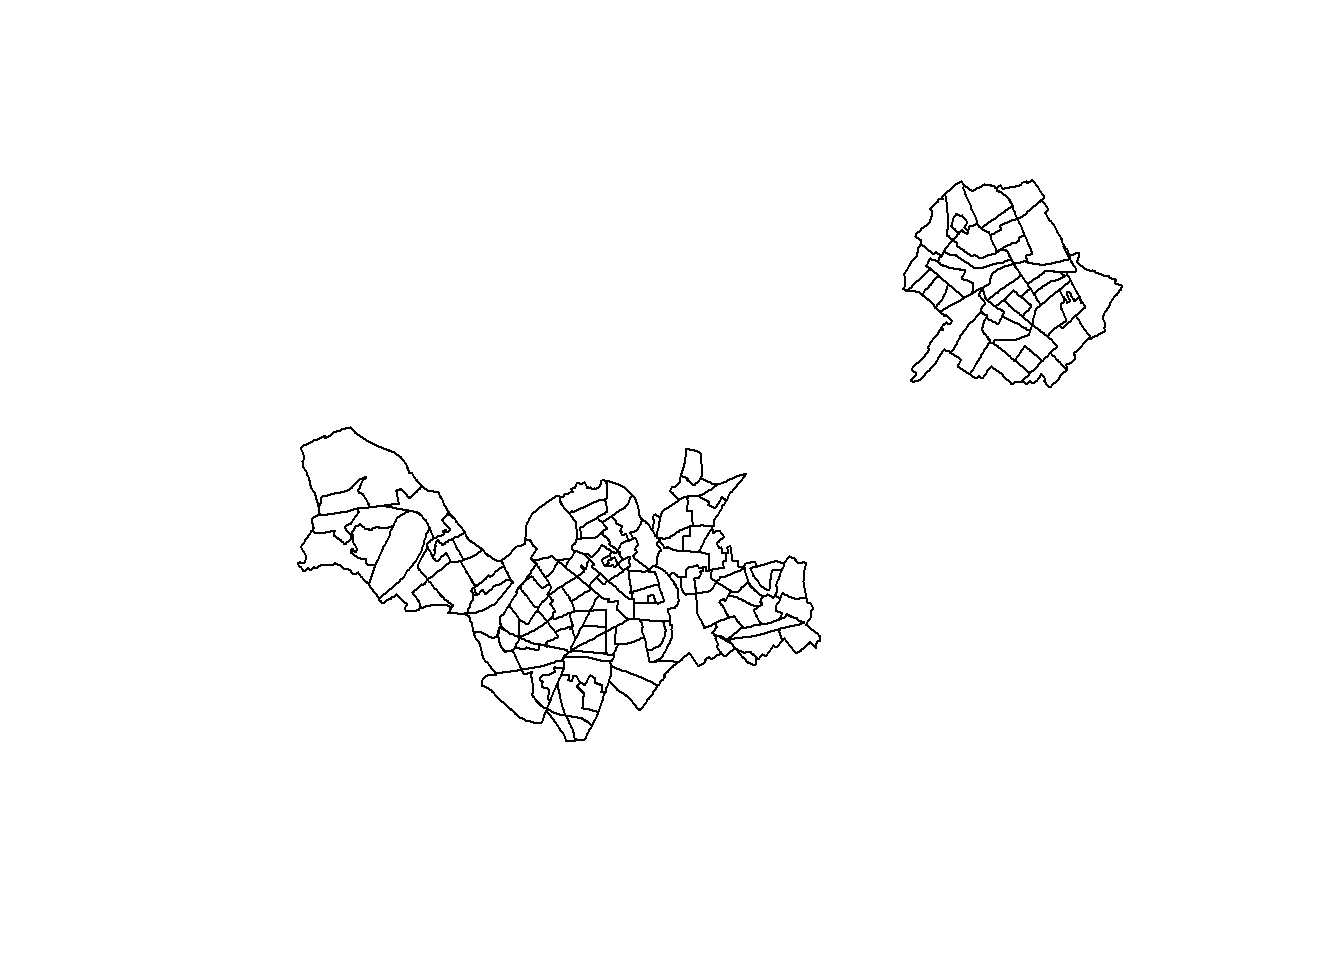
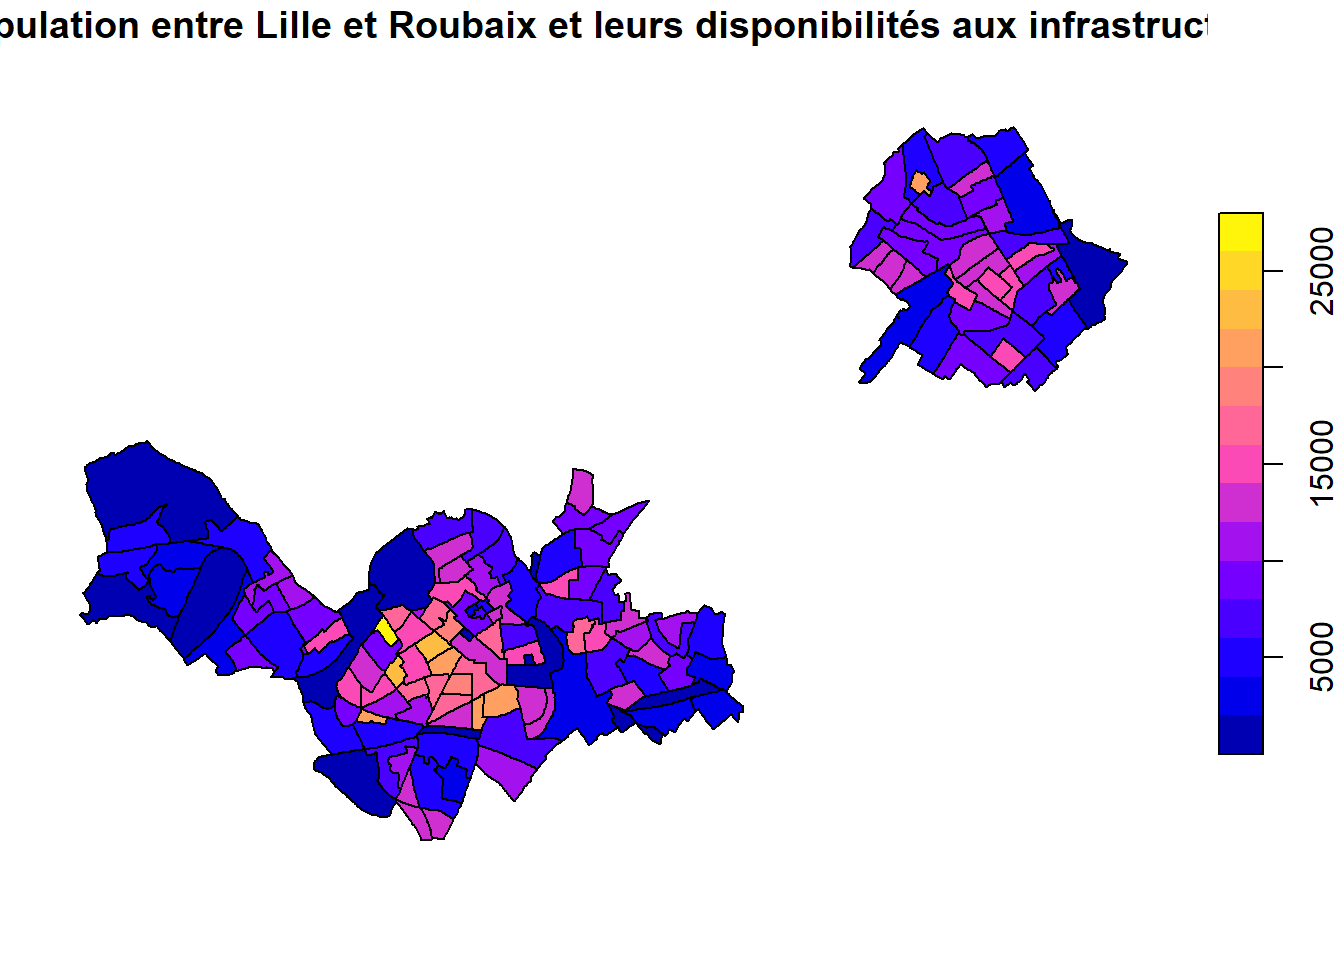
lol

diff --git a/docs/2026/05/13/lib-rez-roubaix/index.html b/docs/2026/05/13/lib-rez-roubaix/index.html
@@ -22,11 +22,6 @@
 
 
 
-
-<link href='//cdnjs.cloudflare.com/ajax/libs/highlight.js/9.12.0/styles/github.min.css' rel='stylesheet' type='text/css' />
-
-
-
 <link rel="stylesheet" href="/sitegis/css/fonts.css" media="all">
 <link rel="stylesheet" href="/sitegis/css/main.css" media="all">
 
@@ -62,7 +57,7 @@
 
   <article class="article">
     
-    <span class="article-duration">5 min read</span>
+    <span class="article-duration">4 min read</span>
     
 
     <h1 class="article-title">Analyse de données</h1>
@@ -100,27 +95,7 @@
 <p>Alors que Lille a bénéficié de percées haussmanniennes et de restructurations majeures facilitant la circulation, certains quartiers roubaisiens souffrent d’un enclavement morphologique. Les rues étroites, couplées au stationnement souvent saturé, créent de nombreux “points de friction” qui ralentissent les interventions d’urgence. Ici, la géographie des bâtiments devient une composante directe de l’inégalité de soin : <mark>à distance égale d’un hôpital, le temps d’intervention sera plus long dans le tissu dense de Roubaix que dans les grands axes lillois.</mark></p>
 <div id="pour-finir-dans-la-continuité-de-notre-étude-sig-de-laccès-à-la-santé-pour-lille-et-roubaix-nous-allons-utiliser-une-jointure-spatiale-qui-permettra-la-superposition-de-la-densité-de-population-avec-les-points-dimplantation-des-structures-de-soin-révélant-un-potentiel-déséquilibre." class="section level3">
 <h3>Pour finir, dans la continuité de notre étude SIG de l’accès à la santé pour Lille et Roubaix, nous allons utiliser une jointure spatiale qui permettra la superposition de la densité de population avec les points d’implantation des structures de soin révélant un potentiel déséquilibre.</h3>
-<pre><code>## Multiple layers are present in data source C:\Users\simon\Documents\AZ\sitegis\content\post\2026-05-13-lib-rez-roubaix\iris.gpkg, reading layer `iris&#39;.
-## Use `st_layers&#39; to list all layer names and their type in a data source.
-## Set the `layer&#39; argument in `st_read&#39; to read a particular layer.</code></pre>
-<pre><code>## Reading layer `iris&#39; from data source 
-##   `C:\Users\simon\Documents\AZ\sitegis\content\post\2026-05-13-lib-rez-roubaix\iris.gpkg&#39; 
-##   using driver `GPKG&#39;
-## Simple feature collection with 1347 features and 7 fields
-## Geometry type: MULTIPOLYGON
-## Dimension:     XY
-## Bounding box:  xmin: 635936.9 ymin: 6986147 xmax: 788231 ymax: 7110497
-## Projected CRS: RGF93 v1 / Lambert-93</code></pre>
 <p><img src="https://etudiantp4.github.io/sitegis/2026/05/13/lib-rez-roubaix/index_files/figure-html/unnamed-chunk-3-1.png" width="672" /></p>
-<pre><code>## Reading layer `soin&#39; from data source 
-##   `C:\Users\simon\Documents\AZ\sitegis\content\post\2026-05-13-lib-rez-roubaix\soin.geojson&#39; 
-##   using driver `GeoJSON&#39;
-## Simple feature collection with 500 features and 73 fields
-## Geometry type: POINT
-## Dimension:     XY
-## Bounding box:  xmin: 2.845676 ymin: 50.5807 xmax: 3.411022 ymax: 50.72513
-## Geodetic CRS:  WGS 84</code></pre>
-<p><img src="https://etudiantp4.github.io/sitegis/2026/05/13/lib-rez-roubaix/index_files/figure-html/unnamed-chunk-3-2.png" width="672" /></p>
 <p><em>Nous avons utilisé les données de l’IRIS fournies sur le site Data.gouv, nous permettant d’avoir accès aux contours infracommunales. De cela, nous avons joint ces données avec le nombre et densité de population de l’INSEE, aussi basés par l’IRIS, nous permettant de nous concentrer sur les quartiers des communes. Enfin à cette jointure, nous avons joint des données géographiques fournies en OSM par OverPassTrubo sur les différents services et offres de soins publics et privées (médecins, cliniques, hôpitaux,etc)</em></p>
 <p>À Roubaix, la densité d’habitants au kilomètre carré est l’une des plus élevées de la métropole, particulièrement dans les quartiers populaires. Or, à travers notre analyse, on s’aperçoit que la densité ne correspond pas toujours à une concentration proportionnelle de l’offre de soins de premier recours (généralistes, cabinets, etc).</p>
 </div>
@@ -154,22 +129,7 @@
     </div>
     
 
-
-
-<script src="//cdnjs.cloudflare.com/ajax/libs/highlight.js/9.12.0/highlight.min.js"></script>
-
-
-
-<script src="//cdnjs.cloudflare.com/ajax/libs/highlight.js/9.12.0/languages/r.min.js"></script>
-<script src="//cdnjs.cloudflare.com/ajax/libs/highlight.js/9.12.0/languages/yaml.min.js"></script>
-<script>hljs.configure({languages: []}); hljs.initHighlightingOnLoad();</script>
-
-
-
     
-<script src="/js/math-code.js"></script>
-<script async src="//cdnjs.cloudflare.com/ajax/libs/mathjax/2.7.5/MathJax.js?config=TeX-MML-AM_CHTML"></script>
-
 
     
   </body>

diff --git a/content/post/2026-05-13-lib-rez-roubaix/index.html b/content/post/2026-05-13-lib-rez-roubaix/index.html
@@ -33,27 +33,7 @@ tags: []
 <p>Alors que Lille a bénéficié de percées haussmanniennes et de restructurations majeures facilitant la circulation, certains quartiers roubaisiens souffrent d’un enclavement morphologique. Les rues étroites, couplées au stationnement souvent saturé, créent de nombreux “points de friction” qui ralentissent les interventions d’urgence. Ici, la géographie des bâtiments devient une composante directe de l’inégalité de soin : <mark>à distance égale d’un hôpital, le temps d’intervention sera plus long dans le tissu dense de Roubaix que dans les grands axes lillois.</mark></p>
 <div id="pour-finir-dans-la-continuité-de-notre-étude-sig-de-laccès-à-la-santé-pour-lille-et-roubaix-nous-allons-utiliser-une-jointure-spatiale-qui-permettra-la-superposition-de-la-densité-de-population-avec-les-points-dimplantation-des-structures-de-soin-révélant-un-potentiel-déséquilibre." class="section level3">
 <h3>Pour finir, dans la continuité de notre étude SIG de l’accès à la santé pour Lille et Roubaix, nous allons utiliser une jointure spatiale qui permettra la superposition de la densité de population avec les points d’implantation des structures de soin révélant un potentiel déséquilibre.</h3>
-<pre><code>## Multiple layers are present in data source C:\Users\simon\Documents\AZ\sitegis\content\post\2026-05-13-lib-rez-roubaix\iris.gpkg, reading layer `iris&#39;.
-## Use `st_layers&#39; to list all layer names and their type in a data source.
-## Set the `layer&#39; argument in `st_read&#39; to read a particular layer.</code></pre>
-<pre><code>## Reading layer `iris&#39; from data source 
-##   `C:\Users\simon\Documents\AZ\sitegis\content\post\2026-05-13-lib-rez-roubaix\iris.gpkg&#39; 
-##   using driver `GPKG&#39;
-## Simple feature collection with 1347 features and 7 fields
-## Geometry type: MULTIPOLYGON
-## Dimension:     XY
-## Bounding box:  xmin: 635936.9 ymin: 6986147 xmax: 788231 ymax: 7110497
-## Projected CRS: RGF93 v1 / Lambert-93</code></pre>
 <p><img src="{{< blogdown/postref >}}index_files/figure-html/unnamed-chunk-3-1.png" width="672" /></p>
-<pre><code>## Reading layer `soin&#39; from data source 
-##   `C:\Users\simon\Documents\AZ\sitegis\content\post\2026-05-13-lib-rez-roubaix\soin.geojson&#39; 
-##   using driver `GeoJSON&#39;
-## Simple feature collection with 500 features and 73 fields
-## Geometry type: POINT
-## Dimension:     XY
-## Bounding box:  xmin: 2.845676 ymin: 50.5807 xmax: 3.411022 ymax: 50.72513
-## Geodetic CRS:  WGS 84</code></pre>
-<p><img src="{{< blogdown/postref >}}index_files/figure-html/unnamed-chunk-3-2.png" width="672" /></p>
 <p><em>Nous avons utilisé les données de l’IRIS fournies sur le site Data.gouv, nous permettant d’avoir accès aux contours infracommunales. De cela, nous avons joint ces données avec le nombre et densité de population de l’INSEE, aussi basés par l’IRIS, nous permettant de nous concentrer sur les quartiers des communes. Enfin à cette jointure, nous avons joint des données géographiques fournies en OSM par OverPassTrubo sur les différents services et offres de soins publics et privées (médecins, cliniques, hôpitaux,etc)</em></p>
 <p>À Roubaix, la densité d’habitants au kilomètre carré est l’une des plus élevées de la métropole, particulièrement dans les quartiers populaires. Or, à travers notre analyse, on s’aperçoit que la densité ne correspond pas toujours à une concentration proportionnelle de l’offre de soins de premier recours (généralistes, cabinets, etc).</p>
 </div>